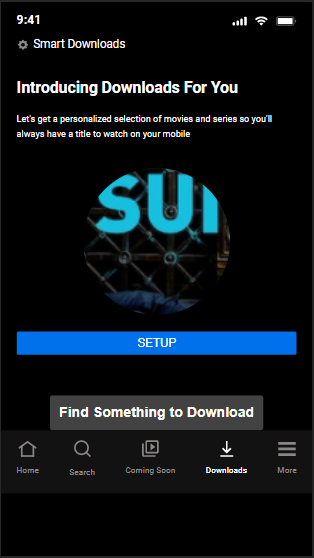
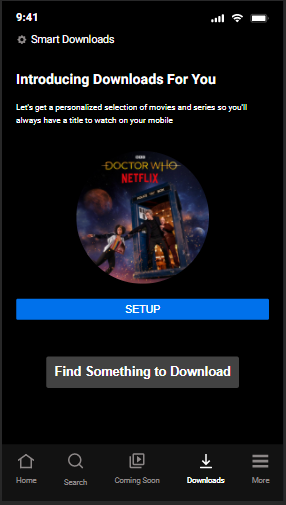
chore: removed 'loading' screenshots, updated 'downloads' screenshot

diff --git a/README.md b/README.md
@@ -29,5 +29,3 @@ The live version of the website can be accessed at: https://netflixmobile.vercel
 !["Coming Soon" Page Screenshot #2](./screenshots/NetflixMobile_ComingSoonPage-02.png)
 !["Downloads" Page](./screenshots/NetflixMobile_DownloadsPage.png)
 !["More" Page](./screenshots/NetflixMobile_MorePage.png)
-![Tablet Size Warning](./screenshots/Load_Warning_TabletVersion.png)
-![Notebook Size Warning](./screenshots/Load_Warning_NotebookVersion.png)
